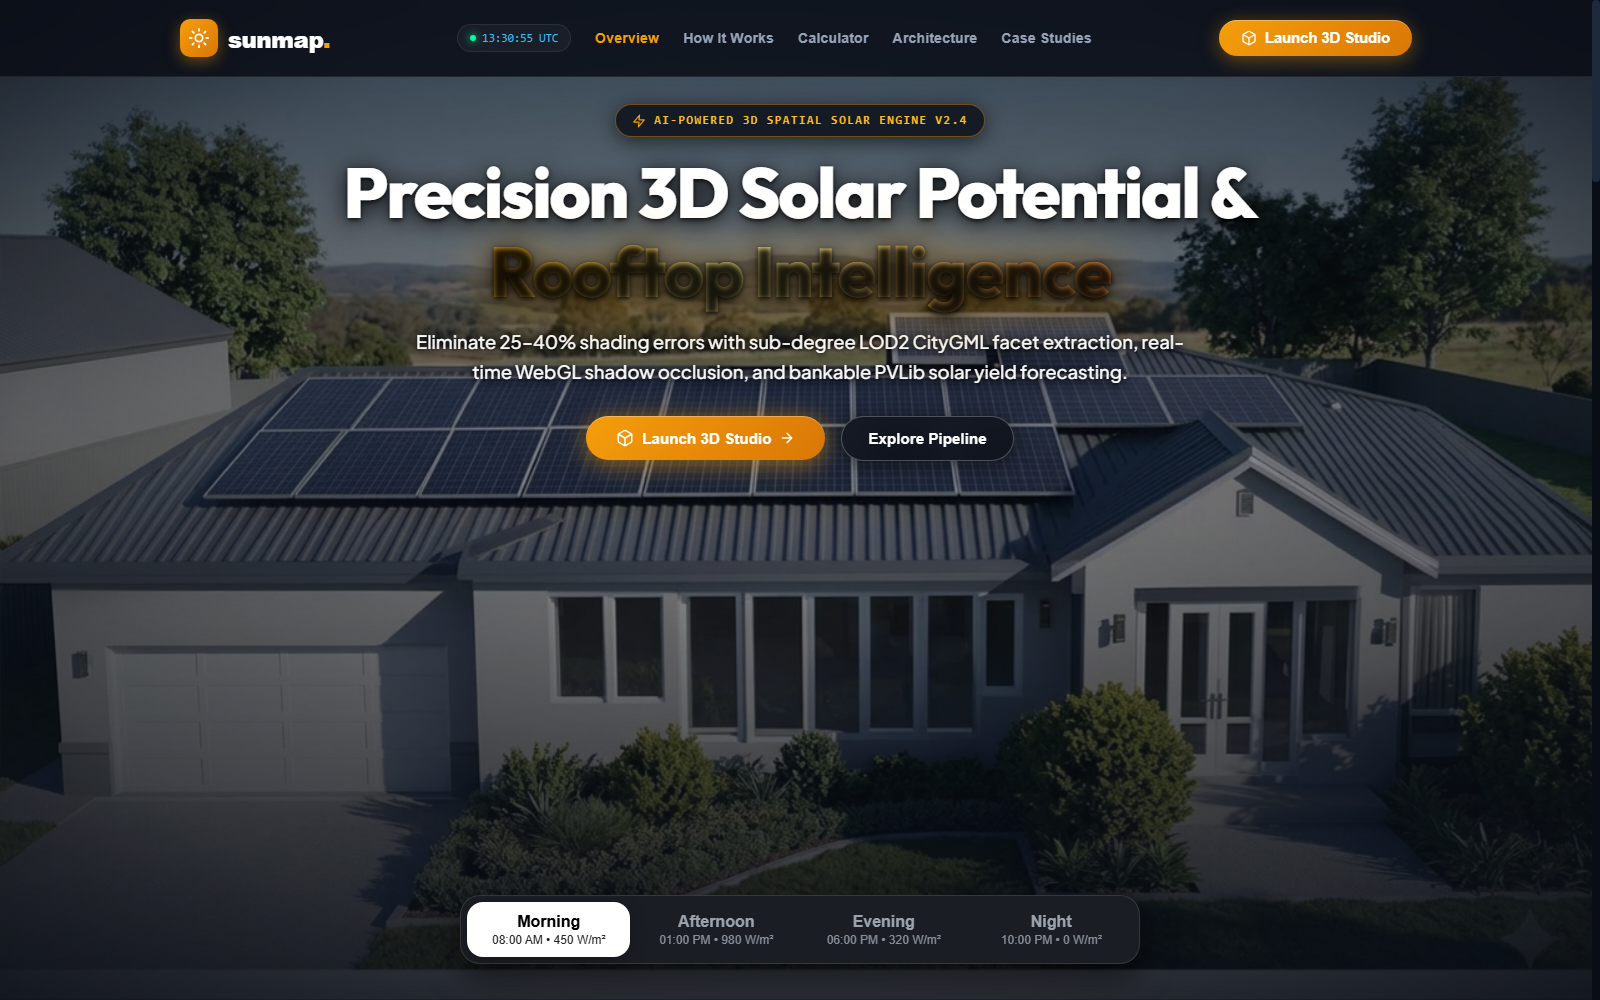
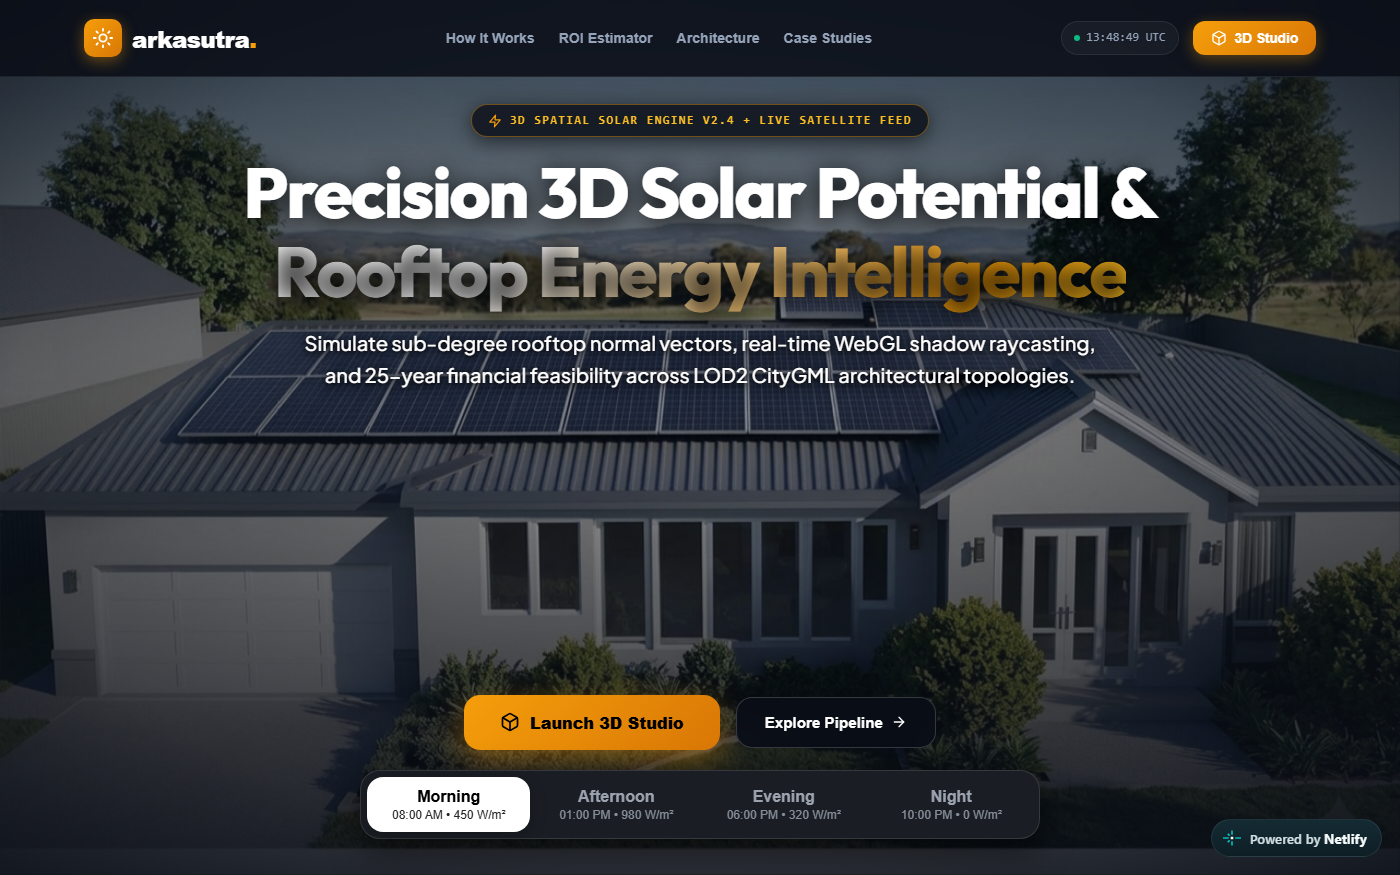
feat(branding): update ArkaSutra live preview url and refresh studio project screenshot

diff --git a/src/components/cli/commandHandlers.js b/src/components/cli/commandHandlers.js
@@ -139,7 +139,7 @@ export const executeCliCommand = (cmdStr, { navigate, setIsOpen, triggerReverseW
       responseEntry = {
         id: Date.now() + 1,
         type: "out",
-        text: `[FLAGSHIP PRODUCTION PLATFORMS]\n1. AnveshakSutra  -> Zero-Knowledge OSINT & 3D Graph ML (https://anveshak-sutra.vercel.app/)\n2. Concept-3D     -> Prompt-to-3D Spatial Latent Generator (https://concept-3d.vercel.app/)\n3. VaakKavach     -> Autonomous Edge AI Acoustic Defense (https://vaakkavach.netlify.app/)\n4. ArkaSutra      -> 3D Spatial Solar & Autonomous Rooftop Agent (https://sunmapsolar.netlify.app/)\n5. KavachG        -> Autonomous Edge Industrial Safety CV by Team CodeGambit (https://kavach-g.vercel.app/)\nRouting to /projects...`,
+        text: `[FLAGSHIP PRODUCTION PLATFORMS]\n1. AnveshakSutra  -> Zero-Knowledge OSINT & 3D Graph ML (https://anveshak-sutra.vercel.app/)\n2. Concept-3D     -> Prompt-to-3D Spatial Latent Generator (https://concept-3d.vercel.app/)\n3. VaakKavach     -> Autonomous Edge AI Acoustic Defense (https://vaakkavach.netlify.app/)\n4. ArkaSutra      -> 3D Spatial Solar & Autonomous Rooftop Agent (https://arkasutra.netlify.app/)\n5. KavachG        -> Autonomous Edge Industrial Safety CV by Team CodeGambit (https://kavach-g.vercel.app/)\nRouting to /projects...`,
         isStreaming: true
       };
       setTimeout(() => {
@@ -190,7 +190,7 @@ export const executeCliCommand = (cmdStr, { navigate, setIsOpen, triggerReverseW
       responseEntry = {
         id: Date.now() + 1,
         type: "out",
-        text: `[SYSTEM] ArkaSutra — 3D Spatial Solar & Autonomous Rooftop Agent\n- Stack: Three.js WebGL, Autonomous Agent AI, CityGML LOD2, Perez Physics, FastAPI\n- Live Preview: https://sunmapsolar.netlify.app/\n- Repo: https://github.com/GuruMachanica/ArkaSutra`,
+        text: `[SYSTEM] ArkaSutra — 3D Spatial Solar & Autonomous Rooftop Agent\n- Stack: Three.js WebGL, Autonomous Agent AI, CityGML LOD2, Perez Physics, FastAPI\n- Live Preview: https://arkasutra.netlify.app/\n- Repo: https://github.com/GuruMachanica/ArkaSutra`,
         isStreaming: true
       };
       break;

diff --git a/src/components/demos/LiveWebsiteModal.jsx b/src/components/demos/LiveWebsiteModal.jsx
@@ -44,18 +44,18 @@ const DEPLOYED_WEBSITES = {
   sunmap: {
     id: "sunmap",
     name: "ArkaSutra",
-    url: "https://sunmapsolar.netlify.app/",
+    url: "https://arkasutra.netlify.app/",
     icon: FaSun,
-    domain: "sunmapsolar.netlify.app",
+    domain: "arkasutra.netlify.app",
     tag: "3D SPATIAL SOLAR & AGENT AI",
     description: "3D Spatial Solar Energy & Autonomous Rooftop Intelligence Engine."
   },
   arkasutra: {
     id: "arkasutra",
     name: "ArkaSutra",
-    url: "https://sunmapsolar.netlify.app/",
+    url: "https://arkasutra.netlify.app/",
     icon: FaSun,
-    domain: "sunmapsolar.netlify.app",
+    domain: "arkasutra.netlify.app",
     tag: "3D SPATIAL SOLAR & AGENT AI",
     description: "3D Spatial Solar Energy & Autonomous Rooftop Intelligence Engine."
   },

diff --git a/src/constants/architectureBlueprints.js b/src/constants/architectureBlueprints.js
@@ -61,7 +61,7 @@ export const architectureBlueprints = {
     security: "Client-Side Sandboxed WebGL Engine",
     siteKey: "sunmap",
     repo: "https://github.com/GuruMachanica/ArkaSutra",
-    demo: "https://sunmapsolar.netlify.app/"
+    demo: "https://arkasutra.netlify.app/"
   },
   "SunMap": {
     category: "3D Spatial Solar & Autonomous Rooftop Agent",
@@ -77,7 +77,7 @@ export const architectureBlueprints = {
     security: "Client-Side Sandboxed WebGL Engine",
     siteKey: "sunmap",
     repo: "https://github.com/GuruMachanica/ArkaSutra",
-    demo: "https://sunmapsolar.netlify.app/"
+    demo: "https://arkasutra.netlify.app/"
   },
   "KavachG": {
     category: "Industrial Edge Safety CV Command Center",

diff --git a/index.html b/index.html
@@ -187,7 +187,7 @@
             <p>60 FPS WebGL spatial digital twin with autonomous solar AI agent, real-world OSM 3D city streaming, live Copernicus/ERA5 satellite telemetry assimilation, and Perez transposition physics benchmarked against NREL PVLib.</p>
             <p>
               <a href="https://github.com/GuruMachanica/ArkaSutra">GitHub Repository</a> | 
-              <a href="https://sunmapsolar.netlify.app/">Live Deployment</a>
+              <a href="https://arkasutra.netlify.app/">Live Deployment</a>
             </p>
           </article>
 

diff --git a/src/constants/index.js b/src/constants/index.js
@@ -284,7 +284,7 @@ const projects = [
     image: sunmap,
     repo: 'https://github.com/GuruMachanica/ArkaSutra',
     source_code_link: 'https://github.com/GuruMachanica/ArkaSutra',
-    demo: 'https://sunmapsolar.netlify.app/',
+    demo: 'https://arkasutra.netlify.app/',
   },
   {
     id: 'project-5',
